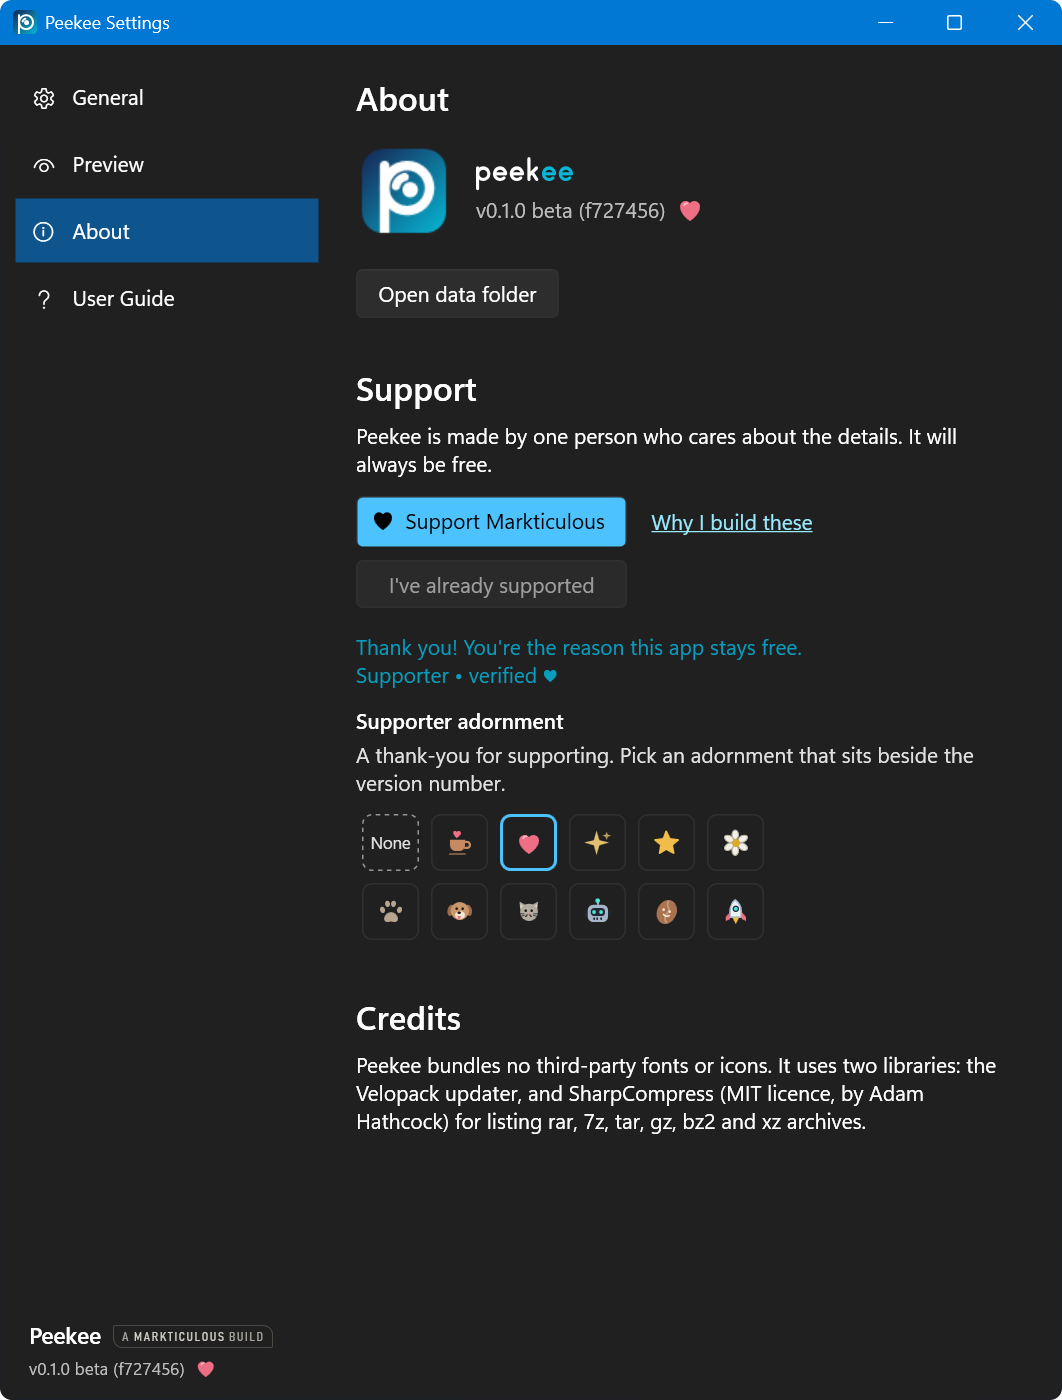
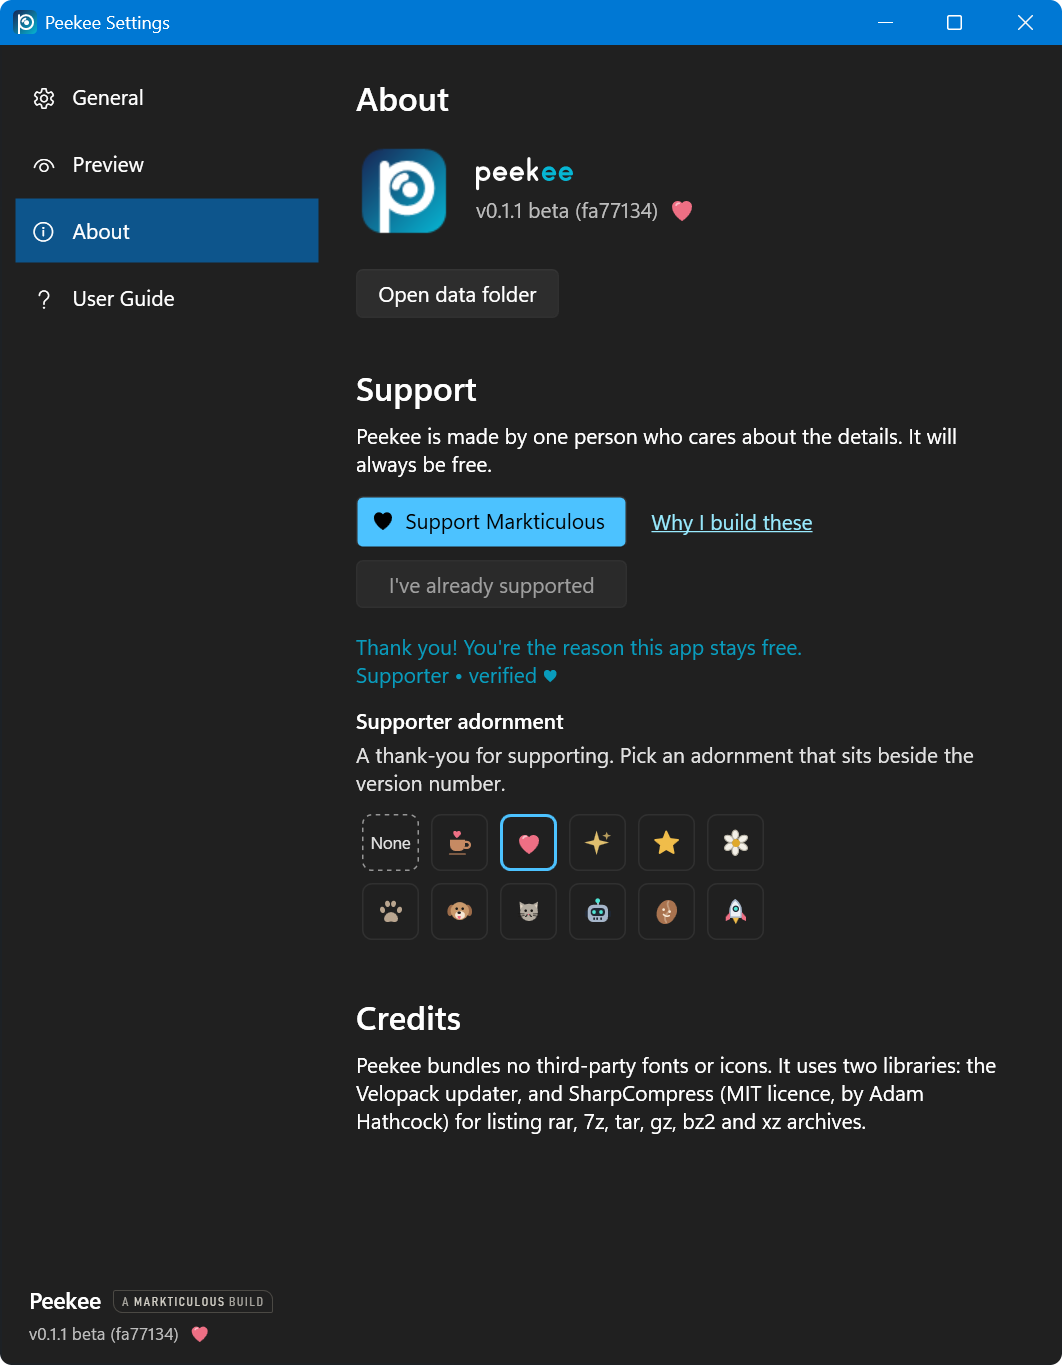
chore(guides): match the User Guides to the latest releases

diff --git a/guides/peekee/index.html b/guides/peekee/index.html
@@ -445,7 +445,7 @@ figcaption { margin-top: 10px; font-family: var(--sans); font-size: 13px; color:
         <dt>Dragging an edge</dt>
         <dd>Drag any edge of the preview to resize it. Peekee remembers the size unless you turn that off in <a href="#settings">Settings</a>.</dd>
         <dt>Mouse wheel</dt>
-        <dd>Scrolls text and tables. On an image it zooms. On a PDF it turns the page.</dd>
+        <dd>Scrolls text and tables. On an image it zooms. On a PDF drawn by Windows it scrolls the page, and at the end of a page it moves to the next one (Ctrl and the wheel zoom).</dd>
       </dl>
       <h3>The header buttons</h3>
       <p>The name of the file is on the left of the header, with the buttons on the right. Hover over a button to see its name.</p>
@@ -454,12 +454,14 @@ figcaption { margin-top: 10px; font-family: var(--sans); font-size: 13px; color:
         <tbody>
           <tr><td>Open</td><td>Opens the file in the program Windows uses for it.</td></tr>
           <tr><td>Pin</td><td>Not available yet. It is greyed out.</td></tr>
-          <tr><td>Copy path</td><td>Copies the full path of the file to the clipboard.</td></tr>
+          <tr><td>Copy</td><td>Copies what you are looking at. A text file (up to the largest size set in Settings) is copied as text, a picture as a picture (a PDF or multi-page TIFF copies the page showing), and anything else, including a folder, as the file itself, so Paste in File Explorer copies it. Shortcut: Ctrl+C.</td></tr>
+          <tr><td>Copy path</td><td>Copies the full path of the file as text. Shortcut: Ctrl+Shift+C.</td></tr>
           <tr><td>Close</td><td>Closes the preview.</td></tr>
-          <tr><td>Previous page and Next page</td><td>Appear only for files with pages, such as a PDF.</td></tr>
+          <tr><td>Previous page and Next page</td><td>Appear only for files with pages, such as a PDF or a TIFF with several pages (PageUp and PageDown do the same).</td></tr>
+          <tr><td>Fit page, Fit width, 100 percent, Zoom out and Zoom in</td><td>Appear for a PDF drawn by Windows. Zoom steps are 25, 50, 75, 100, 125, 150, 200, 300 and 400 percent. A button that would change nothing is greyed out.</td></tr>
         </tbody>
       </table>
-      <p>Open and Copy path are greyed out when no file is showing.</p>
+      <p>Open, Copy and Copy path are greyed out when no file is showing, and Copy is also greyed out for an item that could not be read.</p>
     </section>
 
     <section id="where">
@@ -483,7 +485,7 @@ figcaption { margin-top: 10px; font-family: var(--sans); font-size: 13px; color:
       <p>A preview opens at once and reads the file without changing it.</p>
       <dl class="defs">
         <dt>Images</dt>
-        <dd>PNG, JPG, GIF, BMP, WebP, TIFF and ICO, plus HEIC and AVIF where Windows has the codec installed. Amiga IFF pictures (<code>.iff</code>, <code>.ilbm</code>, <code>.lbm</code>, <code>.ham6</code>, <code>.ham8</code>, <code>.acbm</code>, <code>.rgb8</code>, <code>.rgbn</code>, including HAM and EHB, pictures with a palette for every line, Atari ST pictures, the true-colour RGB8 and RGBN kinds, and the PC <code>PBM</code> kind; a file that is cut short shows the part that is there) are drawn by Peekee itself; the footer says how many colours they use. Their pixel shape is not corrected, so a low-resolution Amiga picture can look narrower than it did on the Amiga. A GIF plays. The wheel zooms, dragging pans, and a double click fits the image to the window again. In <a href="#settings">Settings</a> you choose whether images open fitted to the window or at 100 percent, and what shows behind them.</dd>
+        <dd>PNG, JPG, GIF, BMP, WebP, TIFF and ICO, plus HEIC and AVIF where Windows has the codec installed. Amiga IFF pictures (<code>.iff</code>, <code>.ilbm</code>, <code>.lbm</code>, <code>.ham6</code>, <code>.ham8</code>, <code>.acbm</code>, <code>.rgb8</code>, <code>.rgbn</code>, including HAM and EHB, pictures with a palette for every line, Atari ST pictures, the true-colour RGB8 and RGBN kinds, and the PC <code>PBM</code> kind; a file that is cut short shows the part that is there) are drawn by Peekee itself; the footer says how many colours they use. Their pixel shape is not corrected, so a low-resolution Amiga picture can look narrower than it did on the Amiga. A GIF plays, and the footer says how many frames it has, how fast it runs and how often it plays. A TIFF with several pages shows one page at a time, with page buttons in the header. The wheel zooms, dragging pans, and a double click fits the image to the window again. In <a href="#settings">Settings</a> you choose whether images open fitted to the window or at 100 percent, and what shows behind them.</dd>
         <dt>Text and code</dt>
         <dd>Plain text, logs, configuration files and source code, in a monospace font with line numbers. Long lines scroll sideways instead of wrapping. A file larger than the limit in Settings (2 MB to start with) shows its first part, with a note in the footer.</dd>
         <dt>CSV and TSV</dt>
@@ -501,9 +503,9 @@ figcaption { margin-top: 10px; font-family: var(--sans); font-size: 13px; color:
         <dt>Archives</dt>
         <dd>The contents are listed without unpacking anything: zip, RAR, 7z, ISO, tar (also tar.gz, tgz, tar.bz2, tbz2, tar.xz and txz), gz, bz2, xz, CAB and LHA (lzh, lha). Folders inside show as a tree: click a folder row to open or close it. Name, Size and Modified have their own columns. An archive with a password, or one that is damaged, shows the information card instead.</dd>
         <dt>PDF</dt>
-        <dd>One page at a time. Use the mouse wheel or the arrow buttons in the header to change page. With the default setting, <strong>Interactive</strong>, Peekee tries three ways in this order: the Microsoft Edge PDF previewer, another PDF previewer you have installed, and the PDF renderer built into Windows. With <strong>As images</strong> it uses the Windows renderer at once, which is faster and lighter but has no links, forms or text selection. Hold <kbd>Ctrl</kbd> and turn the wheel to zoom the built-in renderer, and double-click to return to the whole page.</dd>
+        <dd>One page at a time. Use the mouse wheel or the arrow buttons in the header to change page. In the pages drawn by Windows, the header also has Fit page (the default), Fit width, 100 percent, Zoom out and Zoom in, and the footer readout shows the page and the zoom, for example "Page 2 of 9 · 125%". With the default setting, <strong>Interactive</strong>, Peekee tries three ways in this order: the Microsoft Edge PDF previewer, another PDF previewer you have installed, and the PDF renderer built into Windows. With <strong>As images</strong> it uses the Windows renderer at once, which is faster and lighter but has no links, forms or text selection. Hold <kbd>Ctrl</kbd> and turn the wheel to zoom the built-in renderer, and double-click to return to the whole page.</dd>
         <dt>Word, Excel, PowerPoint and email</dt>
-        <dd>These show through the preview component that Windows or Office installs, the same one File Explorer uses in its preview pane. Peekee bundles nothing for them. If no component is installed for a type, you get the information card.</dd>
+        <dd>These show through the preview component that Windows or Office installs, the same one File Explorer uses in its preview pane. Peekee bundles nothing for them. If no component is installed for a type, you get the information card. A file that came from the internet is not given to these components, and a PDF from the internet is drawn by the Windows renderer, until you right-click the file, choose Properties and tick Unblock.</dd>
         <dt>Anything else</dt>
         <dd>The information card: the name, type, size and date of the file.</dd>
       </dl>
@@ -516,7 +518,7 @@ figcaption { margin-top: 10px; font-family: var(--sans); font-size: 13px; color:
         <dt>General</dt>
         <dd><strong>Open the preview with</strong> is <strong>Space</strong>, <strong>Ctrl + Space</strong> or <strong>Shift + Space</strong>. Space also closes the preview, and Esc always does. <strong>Work in Open and Save dialogs</strong> lets Peekee preview inside the file dialogs of other programs. <strong>Start with Windows</strong> opens Peekee in the tray when you sign in. <strong>Check for updates automatically</strong> lets Peekee look for a newer version (see <a href="#privacy">Your privacy</a>), and <strong>Check now</strong> looks straight away. <strong>Restart to update</strong> is greyed out until an update has been downloaded.</dd>
         <dt>Preview</dt>
-        <dd><strong>Window size</strong> sets how much of the screen a preview takes at first, from 30 to 90 percent. <strong>Remember the size I drag the window to</strong> keeps the size you chose by dragging an edge, and <strong>Forget the remembered size</strong> goes back to the setting above. <strong>Show the line at the bottom</strong> turns the footer (type, size, date) on or off. <strong>Images open</strong> is <strong>Fitted to the window</strong> or <strong>At 100 percent</strong>. <strong>Background behind images with transparency</strong> is what shows behind images, SVG files and the pages drawn by the Windows PDF renderer: a checkerboard (the only choice that shows transparent areas, and the default), neutral grey (18 percent), white, black, or the window colour. With the checkerboard, an SVG keeps its automatic light or dark card. <strong>PDF files</strong> is <strong>Interactive</strong> (Edge or an installed previewer first) or <strong>As images</strong> (pages drawn by Windows). Under <strong>Text</strong>, <strong>Font size</strong> and <strong>Largest file shown</strong> (1, 2, 5, 10 or 20 MB) control text and code files. Larger files show their first part only.</dd>
+        <dd><strong>Window size</strong> sets how much of the screen a preview takes at first, from 30 to 90 percent. <strong>Remember the size I drag the window to</strong> keeps the size you chose by dragging an edge, and <strong>Forget the remembered size</strong> goes back to the setting above. <strong>Show the line at the bottom</strong> turns the footer (type, size, date) on or off. <strong>Images open</strong> is <strong>Fitted to the window</strong> or <strong>At 100 percent</strong>. <strong>Background behind pictures</strong> is the colour that fills the preview behind pictures, SVG files and the pages drawn by the Windows PDF renderer. Choose the window colour (light or dark with the theme, and the default), white, light grey, neutral grey (18 percent), dark grey or black. <strong>Show a checkerboard behind transparent parts</strong> (on by default) puts a checkerboard under the picture itself, so transparent areas show; with it off they show the background colour. An SVG with the checkerboard off and the window colour chosen keeps an automatic light or dark card. <strong>PDF files</strong> is <strong>Interactive</strong> (Edge or an installed previewer first) or <strong>As images</strong> (pages drawn by Windows). Under <strong>Text</strong>, <strong>Font size</strong> and <strong>Largest file shown</strong> (1, 2, 5, 10 or 20 MB) control text and code files. Larger files show their first part only.</dd>
         <dt>About</dt>
         <dd>The Peekee name drawn as a wordmark beside the app icon, the version, <strong>Open data folder</strong> (where Peekee keeps its settings), the support section (see <a href="#support">Support Markticulous</a>) and the credits.</dd>
         <dt>User Guide</dt>

diff --git a/guides/peekee/version.js b/guides/peekee/version.js
@@ -1,1 +1,1 @@
-window.PEEKEE_VERSION = '0.1.0';
+window.PEEKEE_VERSION = '0.1.1';
